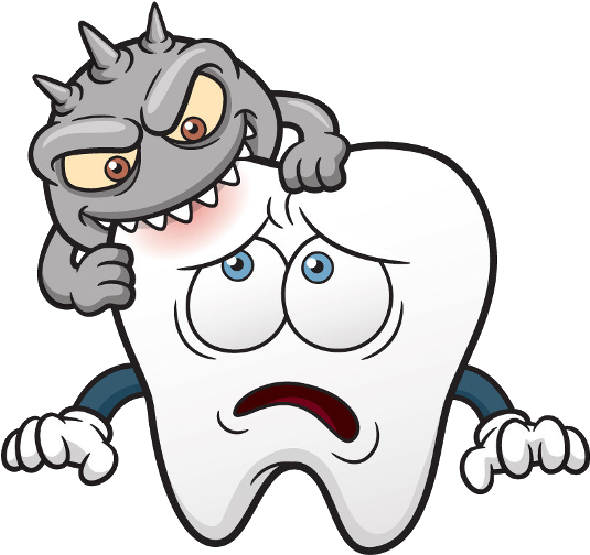
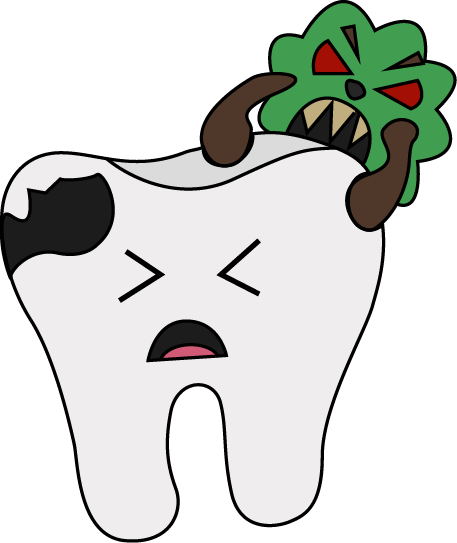
background

diff --git a/platforms/browser/www/js/main.js b/platforms/browser/www/js/main.js
@@ -6,7 +6,7 @@ const START_X = WIDTH/2;
 
 let dentist;
 let lives = 3;
-let livesText, scoreText, restartText, restartButton, startText, startButton;
+let livesText, scoreText, restartText, restartButton, startText, startButton, gameBackground, gameForeground, menuBackground;
 let score = 0;
 let teethSpeed = 150;
 let teeth = [];
@@ -29,6 +29,10 @@ $('.app').append(application.view);
 let startScene = new PIXI.Container();
 startScene.visible = true;
 startScene.sortableChildren = true;
+//background
+menuBackground = new PIXI.Sprite.fromImage('/img/mouth_background_menu.png');
+menuBackground.width = WIDTH;
+menuBackground.height= HEIGHT;
 //start Text
 startText = new PIXI.Text("Starten", {fontFamily: "Roboto", fontSize: 30, fontStyle: "bold", fill: '#013220'});
 startText.x = WIDTH/2;
@@ -50,12 +54,22 @@ startButton.interactive = true;
 startButton.visible = true;
 startButton.on('pointerdown', start);
 
-startScene.addChild(startButton)
-startScene.addChild(startText);
+
 
 /*------------------Game Window-----------*/
 let gameScene = new PIXI.Container();
 gameScene.visible = false;
+
+//background
+gameBackground = new PIXI.Sprite.fromImage('/img/mouth_background.png');
+gameBackground.width = WIDTH;
+gameBackground.height= HEIGHT;
+//teeth foreground
+gameForeground = new PIXI.Sprite.fromImage('/img/teeth_foreground.png');
+gameForeground.width = WIDTH;
+gameForeground.height = WIDTH * 0.5;
+
+
 //Initialize Player(dentist)
 dentist = new PIXI.Sprite.fromImage('/img/waschbaer_150.png');
 dentist.anchor.set(0.5);
@@ -67,7 +81,7 @@ dentist.lane = 0;
 dentist.immortal = false;
 
 // Initialize UI
-livesText = new PIXI.Text("xxx", {fontFamily: "Roboto", fontSize: 24, fontStyle: "bold", fill: '#e74c3c'});
+livesText = new PIXI.Text("xxx", {fontFamily: "Roboto", fontSize: 24, fontStyle: "bold", fill: '#8A0707'});
 livesText.x = 0;
 livesText.y = 10;
 
@@ -116,7 +130,7 @@ menuButton.on('pointerdown', showMenu);
 
 //Initialize enemies(teeth)
 for (var i = 0; i<4; i++) {
-    var tooth = new PIXI.Sprite.fromImage('/img/zahn_150_neu.png');
+    var tooth = new PIXI.Sprite.fromImage('/img/tooth.png');
     tooth.anchor.set(0.5);
     tooth.x = WIDTH/2;
     tooth.y = getRandomIntInclusive(-HEIGHT/2, HEIGHT/3);
@@ -127,15 +141,21 @@ for (var i = 0; i<4; i++) {
     teeth.push(tooth);
 }
 
-//add everything to the game
+//add everything to the game scene
+gameScene.addChild(gameBackground);
 gameScene.addChild(dentist);
 teeth.map(tooth => gameScene.addChild(tooth));
+gameScene.addChild(gameForeground);
 gameScene.addChild(scoreText);
 gameScene.addChild(livesText);
 gameScene.addChild(restartButton);
 gameScene.addChild(restartText);
 gameScene.addChild(menuButton);
 gameScene.addChild(menuText);
+//add everything to the main screen
+startScene.addChild(menuBackground);
+startScene.addChild(startButton)
+startScene.addChild(startText);
 
 
 application.stage.addChild(gameScene);

diff --git a/www/js/main.js b/www/js/main.js
@@ -6,7 +6,7 @@ const START_X = WIDTH/2;
 
 let dentist;
 let lives = 3;
-let livesText, scoreText, restartText, restartButton, startText, startButton;
+let livesText, scoreText, restartText, restartButton, startText, startButton, gameBackground, gameForeground, menuBackground;
 let score = 0;
 let teethSpeed = 150;
 let teeth = [];
@@ -29,6 +29,10 @@ $('.app').append(application.view);
 let startScene = new PIXI.Container();
 startScene.visible = true;
 startScene.sortableChildren = true;
+//background
+menuBackground = new PIXI.Sprite.fromImage('/img/mouth_background_menu.png');
+menuBackground.width = WIDTH;
+menuBackground.height= HEIGHT;
 //start Text
 startText = new PIXI.Text("Starten", {fontFamily: "Roboto", fontSize: 30, fontStyle: "bold", fill: '#013220'});
 startText.x = WIDTH/2;
@@ -50,12 +54,22 @@ startButton.interactive = true;
 startButton.visible = true;
 startButton.on('pointerdown', start);
 
-startScene.addChild(startButton)
-startScene.addChild(startText);
+
 
 /*------------------Game Window-----------*/
 let gameScene = new PIXI.Container();
 gameScene.visible = false;
+
+//background
+gameBackground = new PIXI.Sprite.fromImage('/img/mouth_background.png');
+gameBackground.width = WIDTH;
+gameBackground.height= HEIGHT;
+//teeth foreground
+gameForeground = new PIXI.Sprite.fromImage('/img/teeth_foreground.png');
+gameForeground.width = WIDTH;
+gameForeground.height = WIDTH * 0.5;
+
+
 //Initialize Player(dentist)
 dentist = new PIXI.Sprite.fromImage('/img/waschbaer_150.png');
 dentist.anchor.set(0.5);
@@ -67,7 +81,7 @@ dentist.lane = 0;
 dentist.immortal = false;
 
 // Initialize UI
-livesText = new PIXI.Text("xxx", {fontFamily: "Roboto", fontSize: 24, fontStyle: "bold", fill: '#e74c3c'});
+livesText = new PIXI.Text("xxx", {fontFamily: "Roboto", fontSize: 24, fontStyle: "bold", fill: '#8A0707'});
 livesText.x = 0;
 livesText.y = 10;
 
@@ -116,7 +130,7 @@ menuButton.on('pointerdown', showMenu);
 
 //Initialize enemies(teeth)
 for (var i = 0; i<4; i++) {
-    var tooth = new PIXI.Sprite.fromImage('/img/zahn_150_neu.png');
+    var tooth = new PIXI.Sprite.fromImage('/img/tooth.png');
     tooth.anchor.set(0.5);
     tooth.x = WIDTH/2;
     tooth.y = getRandomIntInclusive(-HEIGHT/2, HEIGHT/3);
@@ -127,15 +141,21 @@ for (var i = 0; i<4; i++) {
     teeth.push(tooth);
 }
 
-//add everything to the game
+//add everything to the game scene
+gameScene.addChild(gameBackground);
 gameScene.addChild(dentist);
 teeth.map(tooth => gameScene.addChild(tooth));
+gameScene.addChild(gameForeground);
 gameScene.addChild(scoreText);
 gameScene.addChild(livesText);
 gameScene.addChild(restartButton);
 gameScene.addChild(restartText);
 gameScene.addChild(menuButton);
 gameScene.addChild(menuText);
+//add everything to the main screen
+startScene.addChild(menuBackground);
+startScene.addChild(startButton)
+startScene.addChild(startText);
 
 
 application.stage.addChild(gameScene);
